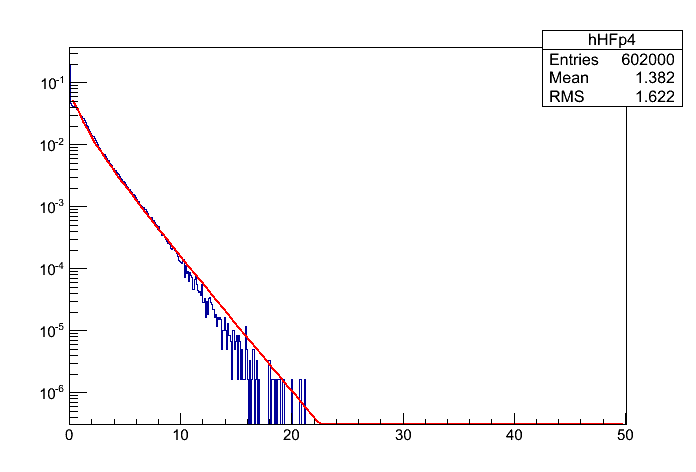
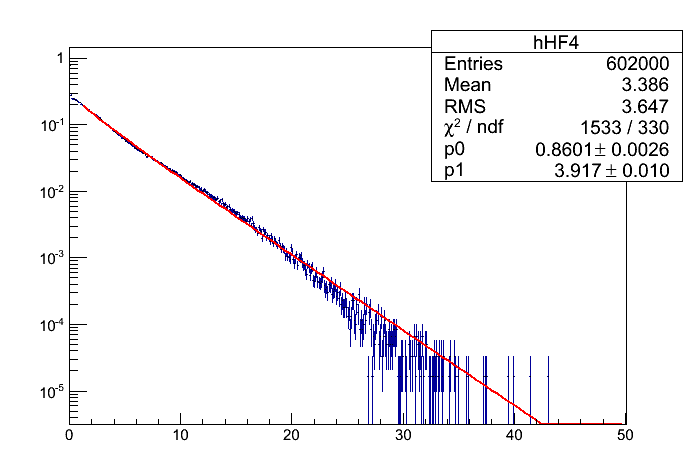
new gamma fit

diff --git a/dNchdeta/PythiaMC/plot.C b/dNchdeta/PythiaMC/plot.C
@@ -1,34 +1,44 @@
 double function(double *v, double *par){
 	TF1 *gamma = new TF1("gamma","TMath::GammaDist(x,[0],0,[1])",0,100);
-	TF1 *gaus = new TF1("gaus","[0]*TMath::Gaus(x,[1]-[2],[3])",0,100);
+//	TF1 *gaus = new TF1("gaus","[0]*TMath::Gaus(x,[1]-[2],[3])",0,100);
 	gamma->SetParameters(par[0],par[1]);
-	gaus->SetParameters(par[2],v[0],par[3],par[4]);
-	TF1 *conv = new TF1("conv","gamma*gaus",0,100);
-	return conv->Integral(0,v[0]);
+//	gaus->SetParameters(par[2],v[0],par[3],par[4]);
+//	TF1 *conv = new TF1("conv","gamma*gaus",0,100);
+//	return conv->Integral(0,v[0]);
+	return gamma->Eval(v[0]);
 }
 
 void plot(){
+	gStyle->SetOptFit(kTRUE);
+	double xmin=1;
+	double xmax=50;
 	TFile *f = TFile::Open("/lio/lfs/cms/store/user/qixu/dNchdeta/MC/pythia6/pPbMC.root");
 	TDirectory *dir = f->GetDirectory("demo");
 	TH1D* hHFp4 = dir->Get("hHFp4");
 	TH1D* hHFp = dir->Get("hHFp");
-//	hHFp4->Rebin(10);
-//	hHFp->Rebin(10);
-	hHFp4->Scale(1.0/hHFp4->Integral());
-	hHFp->Scale(1.0/hHFp->Integral());
+	TH1D* hHF4 = dir->Get("hHF4");
+	TH1D* hHF3 = dir->Get("hHF3");
+	hHFp4->Scale(1.0/hHFp4->Integral("width"));
+	hHFp->Scale(1.0/hHFp->Integral("width"));
+	hHF4->Scale(1.0/hHF4->Integral("width"));
+	hHF3->Scale(1.0/hHF3->Integral("width"));
 	hHFp4->GetXaxis()->SetRangeUser(0,50);
 	hHFp->GetXaxis()->SetRangeUser(0,50);
+	hHF4->GetXaxis()->SetRangeUser(0,50);
 	TCanvas *c1= new TCanvas;
 	c1->SetLogy();
-	TF1 *g = new TF1("g",function,1,100,5);
-	g->SetParameters(2,3,0.1,0,1);
+	TF1 *g = new TF1("g",function,0,100,2);
+	g->SetParameters(0.8,2);
 //	hHFp->Fit("g");
-	hHFp4->Fit("g","","",0,100);
+	hHF4->Fit("g","","",xmin,xmax);
+//	hHFp4->Draw();
+//	g->Draw("same");
+	TLatex *tl = new TLatex(0.2,0.6,Form("fit range %.1f to %.1f",xmin,xmax));
 	c1->Print("hHFp4FitGamma.png");
-	cout<<g->GetParameter(0)<<"\t"<<g->GetParError(0)<<endl;
-	cout<<g->GetParameter(1)<<"\t"<<g->GetParError(1)<<endl;
-	cout<<g->GetParameter(2)<<"\t"<<g->GetParError(2)<<endl;
-	cout<<g->GetParameter(3)<<"\t"<<g->GetParError(3)<<endl;
-	cout<<g->GetParameter(4)<<"\t"<<g->GetParError(4)<<endl;
-	cout<<g->GetNDF()<<"\t"<<g->GetChisquare()<<endl;
+//	cout<<g->GetParameter(0)<<"\t"<<g->GetParError(0)<<endl;
+//	cout<<g->GetParameter(1)<<"\t"<<g->GetParError(1)<<endl;
+//	cout<<g->GetParameter(2)<<"\t"<<g->GetParError(2)<<endl;
+//	cout<<g->GetParameter(3)<<"\t"<<g->GetParError(3)<<endl;
+//	cout<<g->GetParameter(4)<<"\t"<<g->GetParError(4)<<endl;
+//	cout<<g->GetNDF()<<"\t"<<g->GetChisquare()<<endl;
 }
